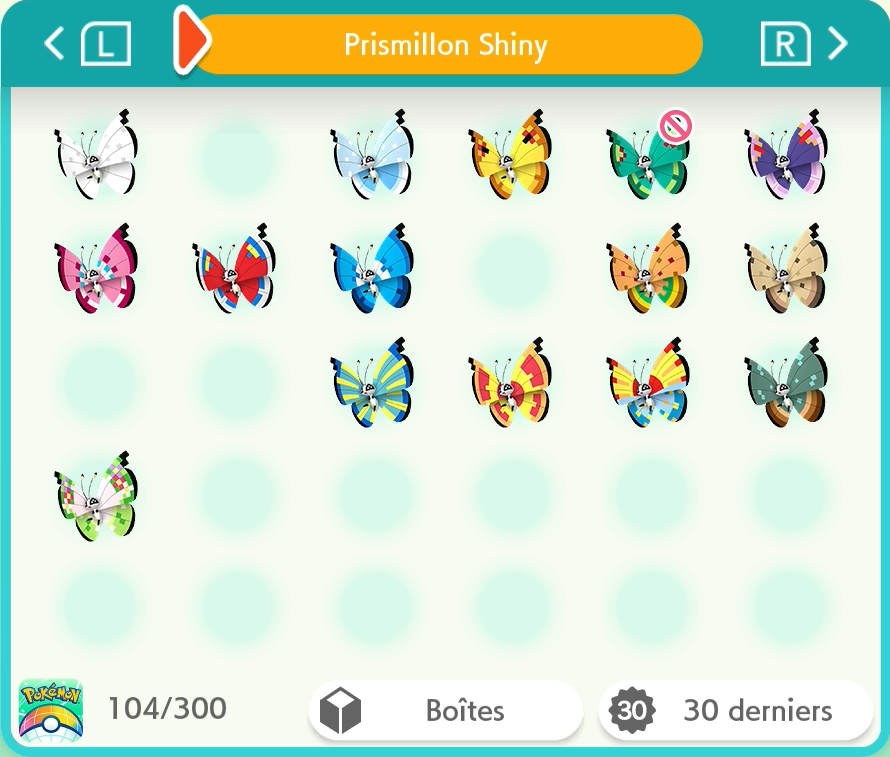
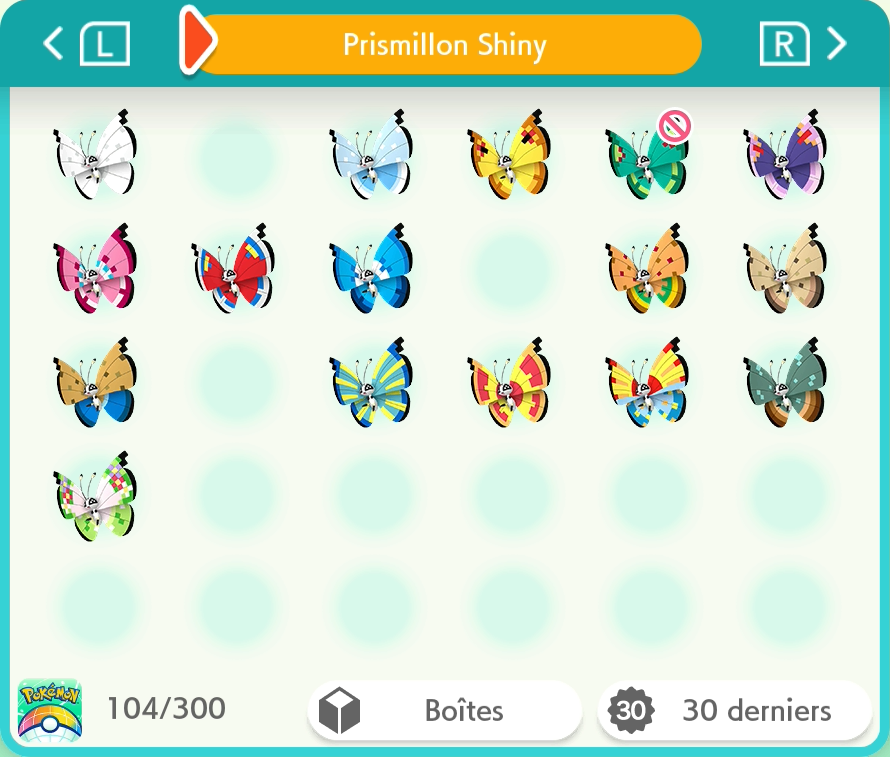
4G : Créfadet | Prismillon : Motif Delta

diff --git a/README.md b/README.md
@@ -2,15 +2,15 @@
 
 Pokémon-Elément-Sh -> <a href="https://www.pokemon-element-sh.fr/profil/karyno21" target="_blank">Karyno21</a>
 
-↓ Dernière Update le 21/10/2026 à 6h46 ↓
-### Dex 1-9G [301/1001] +40
+↓ Dernière Update le 22/10/2026 à 9h44 ↓
+### Dex 1-9G [302/1001] +41
 
 | Gen | Prog | Notes |
 |:--:|:--:|---|
 |1G|49/151|+5 : Artikodin, Électhor, Sulfura, Ptéra & Leveinard|
 |2G|38/100|+6 : Celebi, Raikou, Entei, Suicune, Lugia & Ho-Oh|
 |3G|30/135|+8 : Spinda, Regirock, Regice, Registeel, Latias, Latios, Kyogre, Groudon & Jirachi|
-|4G|22/107|+2 : Créhelf & Créfollet|
+|4G|23/107|+3 : Créhelf, Créfollet & Créfadet|
 |5G|31/155|+3 : Genesect (JP Event), Venipatte & Scobolide|
 |6G|30/71|+8 : Amagara, Dragmara, Ptyranidur, Volcanion (HOME), Diancie (JP Event), Lépidonille, Pérégrain & Prismillon (Floraison)|
 |7G|20/84|+4 : Type:0, Silvallié, Mandrillon & Sovkipou|
@@ -26,12 +26,12 @@ Pokémon-Elément-Sh -> <a href="https://www.pokemon-element-sh.fr/profil/karyno
 |Hisui|17/17|Complété|
 |Paldea|4/4|Complété|
 
-### Total [359/1059] +40
+### Total [360/1059] +41
 
 <details>
   <summary>Bonus - Motif de Prismillon</summary>
 
-### Motif de Prismillon [15/19] +15
+### Motif de Prismillon [16/19] +16
 
 | Motif | Prog |
 |---|:--:|
@@ -40,7 +40,7 @@ Pokémon-Elément-Sh -> <a href="https://www.pokemon-element-sh.fr/profil/karyno
 |Motif Blizzard|Obtenu|
 |Motif Continent|Obtenu|
 |Motif Cyclone||
-|Motif Delta||
+|Motif Delta|Obtenu|
 |Motif Fantaisie (événementiel / motif de base dans Écarlate et Violet)|Obtenu|
 |Motif Floraison (motif de base dans X et Y, jeux où il est apparu pour la première fois)|Obtenu|
 |Motif Glace|Obtenu|
